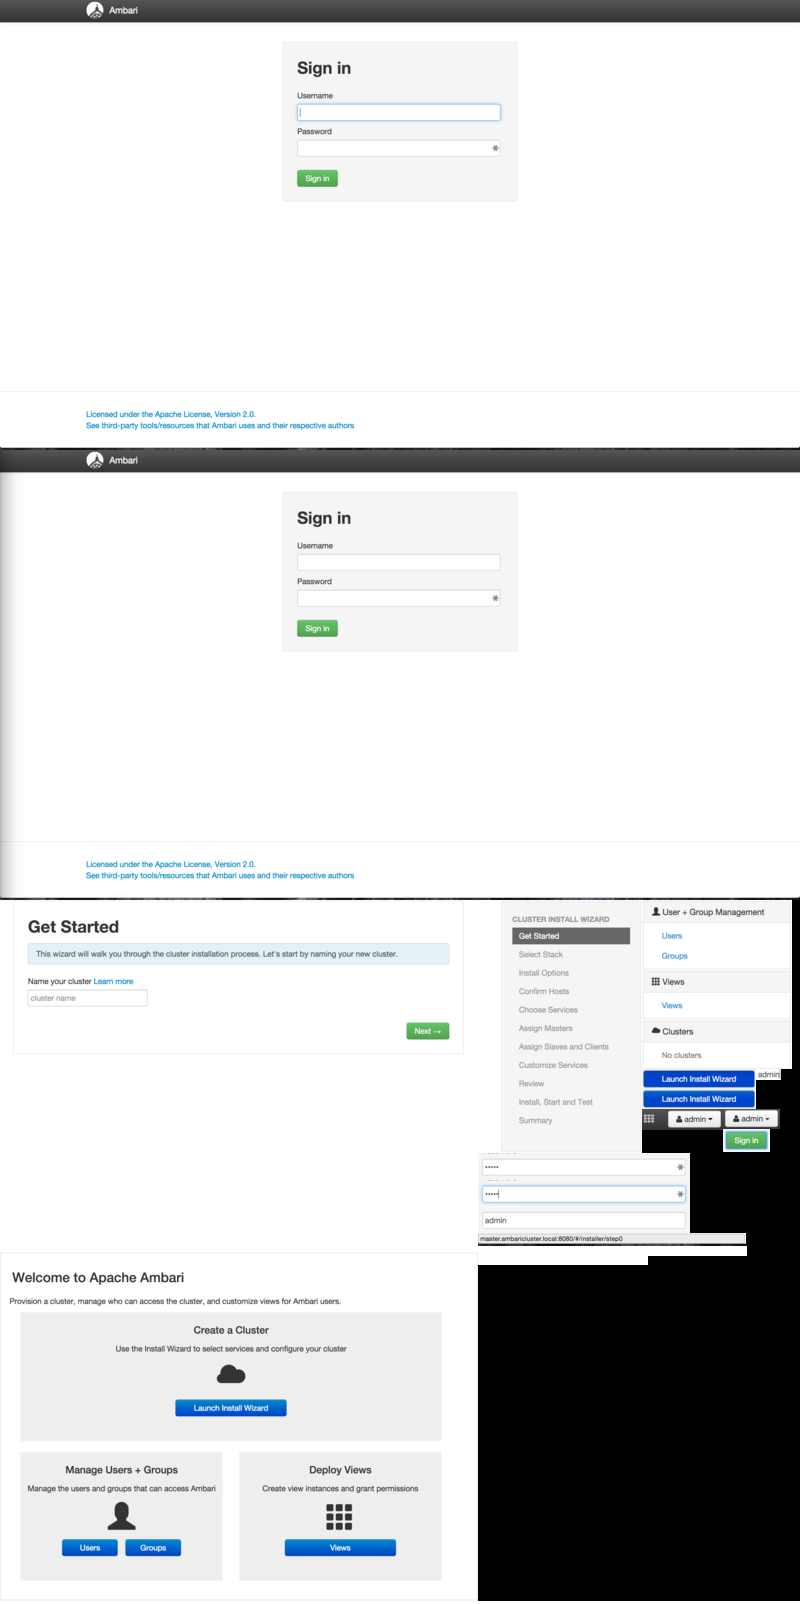
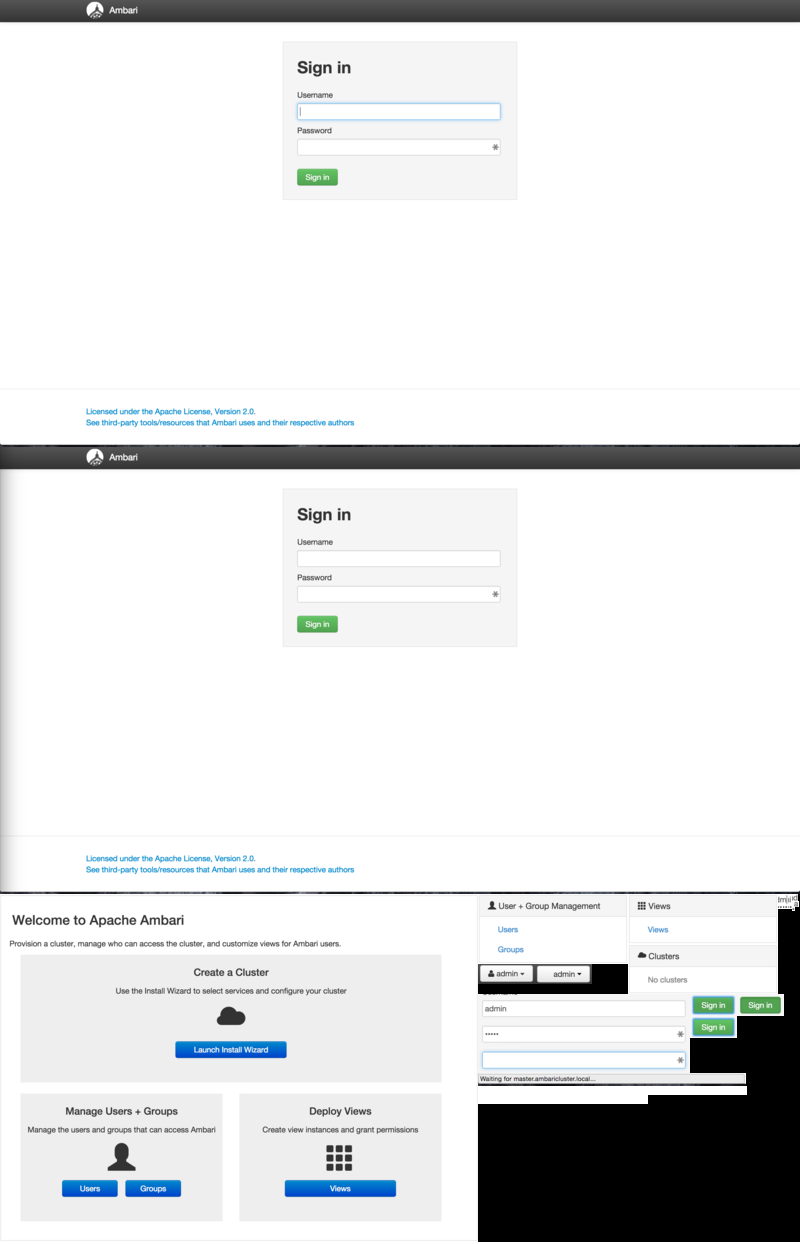
Update image for step1 and getting setup with vagrant.  Need to fix shadow though.

diff --git a/moving-images/getting-setup-with-vagrant/blips.js b/moving-images/getting-setup-with-vagrant/blips.js
@@ -1,1 +1,1 @@
-step1_timeline=[{delay:300,blit:[[0,450,800,450,0,0]]},{delay:500,blit:[[0,0,800,450,0,0]]},{delay:400,blit:[[756,1069,25,11,298,107]]},{delay:400,blit:[[478,1207,212,26,293,99],[478,1180,212,27,293,134]]},{delay:800,blit:[[478,1153,212,27,293,134],[723,1129,47,23,294,167]]},{delay:500,blit:[[723,1109,57,20,659,1],[642,1020,150,49,74,33],[0,1252,478,349,239,33],[642,970,150,50,74,92],[642,900,150,70,74,151],[0,1601,800,3,0,390],[478,1256,170,9,86,410],[478,1246,269,10,86,421]]},{delay:800,blit:[[642,1089,114,20,413,179],[478,1233,268,13,0,437]]},{delay:500,blit:[[642,1069,114,20,413,179]]},{delay:800,blit:[[642,1109,81,21,635,1],[478,900,164,253,74,30],[0,900,478,352,239,30],[0,390,800,3,0,390],[86,860,170,9,86,410],[86,421,269,10,86,421],[0,437,268,13,0,437]]}];
+step1_timeline=[{"delay":200,"blit":[[0,447,800,447,0,0]]},{"delay":200,"blit":[[0,0,800,447,0,0]]},{"delay":200,"blit":[[483,1055,3,11,298,106]]},{"delay":200,"blit":[[792,901,7,6,298,109]]},{"delay":200,"blit":[[792,894,6,7,303,108]]},{"delay":200,"blit":[[778,894,10,11,307,106]]},{"delay":200,"blit":[[788,894,4,11,314,106]]},{"delay":200,"blit":[[501,1005,6,7,316,108]]},{"delay":200,"blit":[[478,994,212,27,293,97],[478,1047,212,26,293,134]]},{"delay":200,"blit":[[792,907,3,4,300,145]]},{"delay":200,"blit":[[783,905,5,4,301,145]]},{"delay":200,"blit":[[778,905,5,4,304,145]]},{"delay":200,"blit":[[788,905,4,4,307,145]]},{"delay":200,"blit":[[495,1032,4,4,310,145]]},{"delay":200,"blit":[[478,1021,212,26,293,134],[690,1016,47,22,294,166]]},{"delay":200,"blit":[[737,994,47,22,294,166]]},{"delay":200,"blit":[[535,964,57,20,659,1],[690,994,47,22,294,166],[478,1073,268,13,0,434]]},{"delay":200,"blit":[[478,964,57,20,659,1],[628,944,150,50,74,32],[0,894,478,348,239,32],[628,894,150,50,74,91],[478,894,150,70,74,150],[0,1242,800,2,0,388],[478,1095,170,9,86,408],[478,1086,269,9,86,419],[0,434,268,13,0,434]]}]
